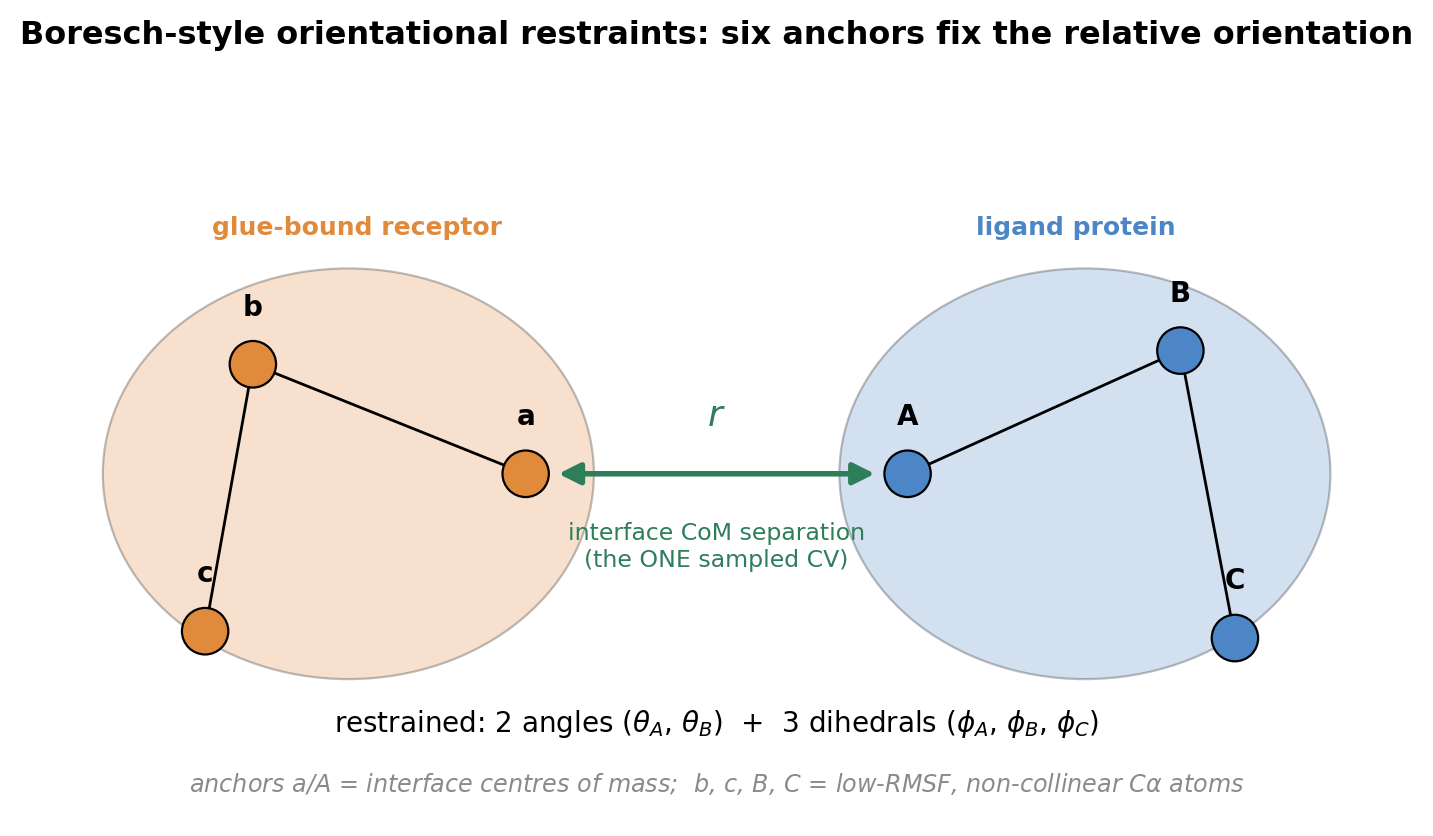
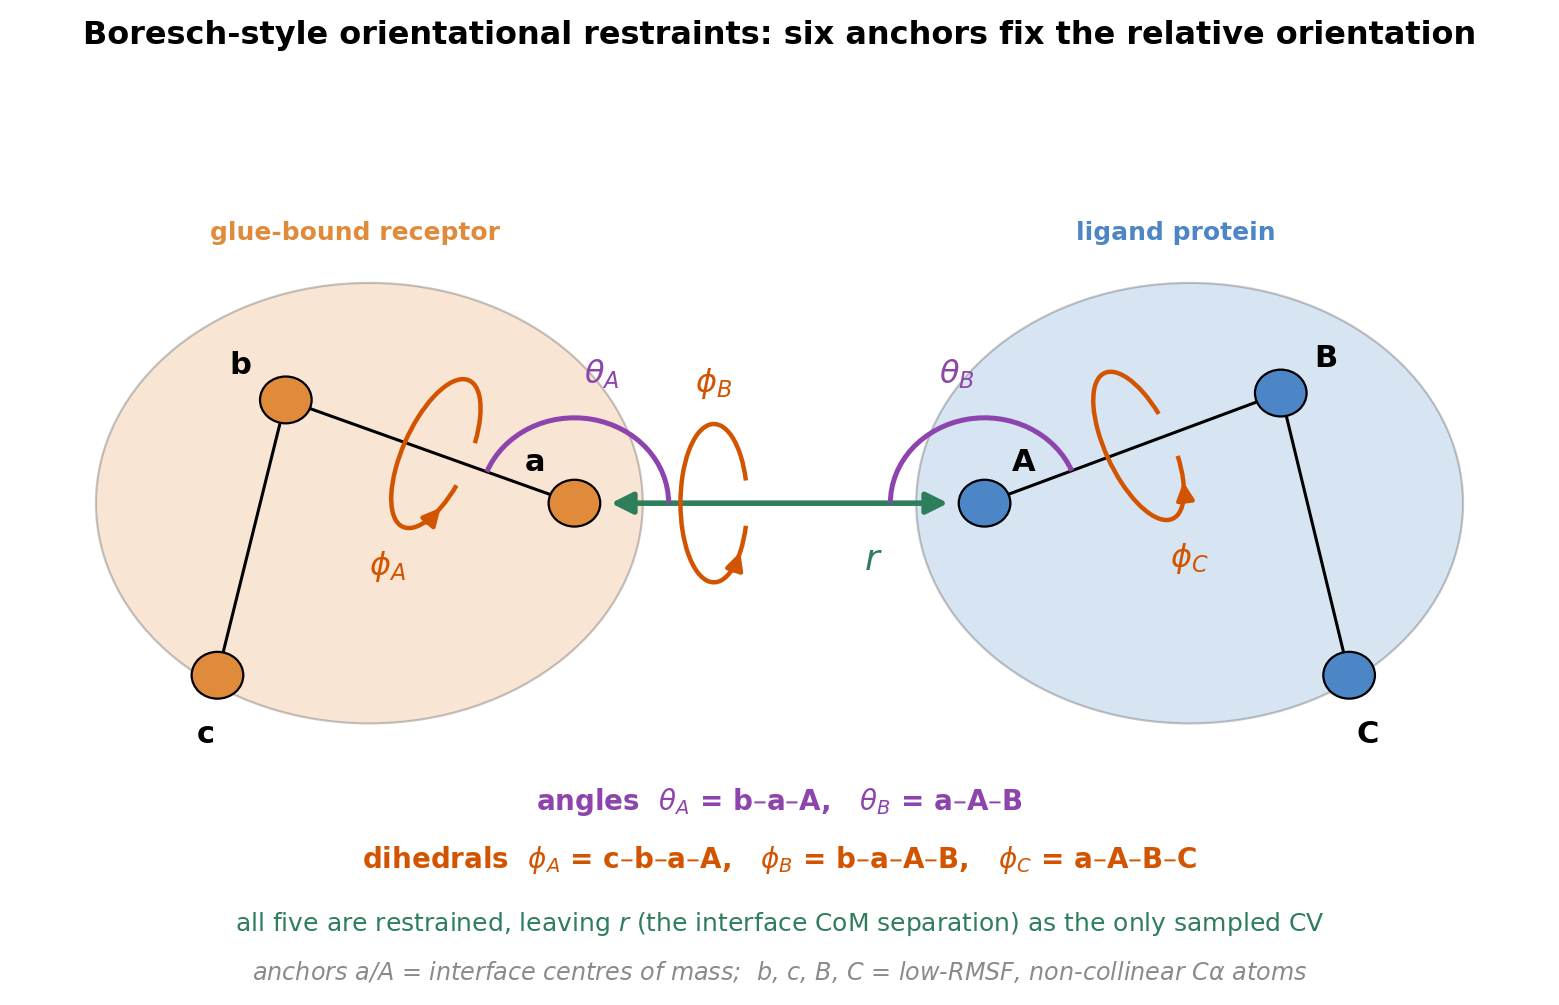
Mark the Boresch angles and dihedrals directly on Figure 3
The restrained coordinates were only named in the caption text. Draw them
where they actually live: the two angles as arcs at their vertex atoms
(a and A), and the three dihedrals as rotation rings around the bond each
one twists about. Move the phi_B ring off-centre so it no longer collides
with the r label on the same axis.

Add the explicit atom definitions to the post body in both languages, and
note that phi_B twists about the same axis the proteins are later pulled
apart along.

diff --git a/_scripts/make_us_ternary_figs.py b/_scripts/make_us_ternary_figs.py
@@ -9,7 +9,8 @@ import numpy as np
 import matplotlib
 matplotlib.use("Agg")
 import matplotlib.pyplot as plt
-from matplotlib.patches import FancyArrowPatch, Ellipse, Circle, FancyBboxPatch
+from matplotlib.patches import (FancyArrowPatch, Ellipse, Circle,
+                                FancyBboxPatch, Arc)
 
 OUT = os.path.join(os.path.dirname(os.path.abspath(__file__)),
                    "..", "images", "blog", "us-ternary-geometric-route")
@@ -181,49 +182,122 @@ def fig2_thermo_cycle():
     plt.close(fig)
 
 
+def _ang(P, Q):
+    """Direction of P->Q in degrees."""
+    return np.degrees(np.arctan2(Q[1] - P[1], Q[0] - P[0]))
+
+
+def draw_angle(ax, vertex, p1, p2, radius, label, color):
+    """Arc marking the angle p1-vertex-p2, labelled on its bisector."""
+    a1, a2 = _ang(vertex, p1), _ang(vertex, p2)
+    sweep = (a2 - a1) % 360
+    if sweep > 180:
+        a1, a2 = a2, a1
+        sweep = 360 - sweep
+    ax.add_patch(Arc(vertex, 2 * radius, 2 * radius, theta1=a1, theta2=a2,
+                     color=color, lw=1.8, zorder=6))
+    mid = np.radians(a1 + sweep / 2.0)
+    lr = radius + 0.34
+    ax.text(vertex[0] + lr * np.cos(mid), vertex[1] + lr * np.sin(mid),
+            label, ha="center", va="center", fontsize=11.5, color=color,
+            fontweight="bold", zorder=7)
+
+
+def draw_torsion(ax, P, Q, t, label, color, w=0.44, h=1.15, gap=38,
+                 lab_side=1.0):
+    """Rotation ring around the P-Q bond, marking a dihedral about it."""
+    P, Q = np.array(P, float), np.array(Q, float)
+    d = Q - P
+    ang = np.degrees(np.arctan2(d[1], d[0]))
+    c = P + t * d
+    ax.add_patch(Arc(c, w, h, angle=ang, theta1=gap, theta2=360 - gap,
+                     color=color, lw=1.6, zorder=6))
+
+    ca, sa = np.cos(np.radians(ang)), np.sin(np.radians(ang))
+
+    def rot(x, y):
+        return np.array([ca * x - sa * y, sa * x + ca * y])
+
+    th = np.radians(360 - gap)
+    tip = c + rot((w / 2) * np.cos(th), (h / 2) * np.sin(th))
+    tan = rot(-(w / 2) * np.sin(th), (h / 2) * np.cos(th))
+    tan = tan / np.hypot(*tan) * 0.14
+    ax.add_patch(FancyArrowPatch(tip - tan, tip, arrowstyle="-|>",
+                                 mutation_scale=13, color=color, lw=1.6,
+                                 shrinkA=0, shrinkB=0, zorder=7))
+
+    perp = np.array([-d[1], d[0]])
+    perp = perp / np.hypot(*perp) * (h / 2 + 0.3) * lab_side
+    ax.text(c[0] + perp[0], c[1] + perp[1], label, ha="center", va="center",
+            fontsize=11.5, color=color, fontweight="bold", zorder=7)
+
+
 # ---------------------------------------------------------------- figure 3
 def fig3_boresch():
-    fig, ax = plt.subplots(figsize=(8.8, 4.8))
+    fig, ax = plt.subplots(figsize=(9.8, 5.9))
     ax.set_xlim(0, 10)
-    ax.set_ylim(0, 5.4)
+    ax.set_ylim(0, 6.6)
     ax.axis("off")
     ax.set_title("Boresch-style orientational restraints: six anchors fix the "
                  "relative orientation", fontsize=11.5, fontweight="bold",
                  pad=12)
 
-    protein(ax, (2.3, 2.5), 3.6, 3.0, C_E3, "", alpha=0.25)
-    ax.text(1.3, 4.25, "glue-bound receptor", fontsize=9, color=C_E3,
+    protein(ax, (2.3, 3.5), 3.6, 3.2, C_E3, "", alpha=0.22)
+    ax.text(1.25, 5.42, "glue-bound receptor", fontsize=9, color=C_E3,
             fontweight="bold")
-    protein(ax, (7.7, 2.5), 3.6, 3.0, C_TARGET, "", alpha=0.25)
-    ax.text(6.9, 4.25, "ligand protein", fontsize=9, color=C_TARGET,
+    protein(ax, (7.7, 3.5), 3.6, 3.2, C_TARGET, "", alpha=0.22)
+    ax.text(6.95, 5.42, "ligand protein", fontsize=9, color=C_TARGET,
             fontweight="bold")
 
-    pts = {"c": (1.25, 1.35), "b": (1.6, 3.3), "a": (3.6, 2.5),
-           "A": (6.4, 2.5), "B": (8.4, 3.4), "C": (8.8, 1.3)}
+    pts = {"c": (1.30, 2.25), "b": (1.75, 4.25), "a": (3.65, 3.50),
+           "A": (6.35, 3.50), "B": (8.30, 4.30), "C": (8.75, 2.25)}
+    lab_off = {"c": (-0.08, -0.42), "b": (-0.30, 0.26), "a": (-0.26, 0.30),
+               "A": (0.26, 0.30), "B": (0.30, 0.26), "C": (0.12, -0.42)}
     for name, (x, y) in pts.items():
         col = C_E3 if name.islower() else C_TARGET
         ax.add_patch(Circle((x, y), 0.17, facecolor=col, edgecolor="black",
                             lw=0.8, zorder=5))
-        ax.text(x, y + 0.36, name, ha="center", fontsize=10,
+        dx, dy = lab_off[name]
+        ax.text(x + dx, y + dy, name, ha="center", va="center", fontsize=11,
                 fontweight="bold", zorder=6)
 
     for p, q in [("c", "b"), ("b", "a"), ("A", "B"), ("B", "C")]:
         ax.plot([pts[p][0], pts[q][0]], [pts[p][1], pts[q][1]],
-                color="black", lw=1.0, zorder=4)
+                color="black", lw=1.1, zorder=4)
 
+    # the single sampled coordinate
     arrow(ax, (pts["a"][0] + 0.24, pts["a"][1]),
           (pts["A"][0] - 0.24, pts["A"][1]),
           color=C_GOOD, lw=2.0, style="<|-|>", mutation=16)
-    ax.text(5.0, 2.85, r"$r$", ha="center", fontsize=13, color=C_GOOD,
-            fontweight="bold")
-    ax.text(5.0, 2.15, "interface CoM separation\n(the ONE sampled CV)",
-            ha="center", va="top", fontsize=8.5, color=C_GOOD)
+    ax.text(5.62, 3.22, r"$r$", ha="center", va="top", fontsize=13,
+            color=C_GOOD, fontweight="bold")
 
-    ax.text(5.0, 0.62,
-            r"restrained: 2 angles ($\theta_A$, $\theta_B$)  +  "
-            r"3 dihedrals ($\phi_A$, $\phi_B$, $\phi_C$)",
-            ha="center", fontsize=10)
-    ax.text(5.0, 0.18,
+    # the two restrained angles, at their actual vertices
+    C_ANG = "#8E44AD"
+    draw_angle(ax, pts["a"], pts["b"], pts["A"], 0.62, r"$\theta_A$", C_ANG)
+    draw_angle(ax, pts["A"], pts["a"], pts["B"], 0.62, r"$\theta_B$", C_ANG)
+
+    # the three restrained dihedrals, as rotations about their central bonds
+    C_DIH = "#D35400"
+    draw_torsion(ax, pts["b"], pts["a"], 0.52, r"$\phi_A$", C_DIH,
+                 lab_side=-1.0)
+    draw_torsion(ax, pts["a"], pts["A"], 0.34, r"$\phi_B$", C_DIH,
+                 lab_side=1.0)
+    draw_torsion(ax, pts["A"], pts["B"], 0.52, r"$\phi_C$", C_DIH,
+                 lab_side=-1.0)
+
+    ax.text(5.0, 1.28,
+            r"angles  $\theta_A$ = b–a–A,   $\theta_B$ = a–A–B",
+            ha="center", fontsize=10, color=C_ANG, fontweight="bold")
+    ax.text(5.0, 0.86,
+            r"dihedrals  $\phi_A$ = c–b–a–A,   $\phi_B$ = b–a–A–B,   "
+            r"$\phi_C$ = a–A–B–C",
+            ha="center", fontsize=10, color=C_DIH, fontweight="bold")
+    ax.text(5.0, 0.40,
+            "all five are restrained, leaving $r$ (the interface CoM "
+            "separation) as the only sampled CV",
+            ha="center", fontsize=9, color=C_GOOD)
+    ax.text(5.0, 0.04,
             r"anchors a/A = interface centres of mass;  b, c, B, C = low-RMSF, "
             r"non-collinear $C\alpha$ atoms",
             ha="center", fontsize=8.6, color=C_GREY, style="italic")

diff --git a/_posts/2026-11-16-umbrella-sampling-ternary-complex-geometric-route.md b/_posts/2026-11-16-umbrella-sampling-ternary-complex-geometric-route.md
@@ -82,7 +82,23 @@ Three implementation details carry most of the real weight; skipping any of them
 
 有三个实现细节承担了大部分真实工作量，复现时跳过任何一个都会翻车。
 
-![Figure 3 — The Boresch restraint scheme. Six anchor points (three per protein) define two angles and three dihedrals; restraining all five, plus the Cα RMSD of each protein, leaves the interface centre-of-mass separation r as the single sampled coordinate. Anchors b, c, B and C are chosen at local minima of the RMSF plot so that the restrained angles are built on rigid parts of the structure.](/images/blog/us-ternary-geometric-route/fig3_boresch_anchors.png)
+![Figure 3 — The Boresch restraint scheme, with the restrained coordinates marked where they actually live. The two angles (purple arcs) sit at their vertex atoms a and A; the three dihedrals (orange rings) are drawn as rotations about the bond each one twists around. Restraining all five, plus the Cα RMSD of each protein, leaves the interface centre-of-mass separation r as the single sampled coordinate. Anchors b, c, B and C are chosen at local minima of the RMSF plot so that the restrained angles are built on rigid parts of the structure.](/images/blog/us-ternary-geometric-route/fig3_boresch_anchors.png)
+
+**The five restrained coordinates / 被限制的五个坐标.** Label the anchors a, b, c in the glue-bound receptor and A, B, C in the ligand protein. The restrained degrees of freedom are then the two angles
+
+把带胶受体一侧的锚点记为 a、b、c，配体蛋白一侧记为 A、B、C，被限制的自由度就是两个角
+
+$$\theta_A = \angle(b,a,A), \qquad \theta_B = \angle(a,A,B)$$
+
+and the three dihedrals
+
+和三个二面角
+
+$$\phi_A = (c,b,a,A), \qquad \phi_B = (b,a,A,B), \qquad \phi_C = (a,A,B,C)$$
+
+Each dihedral is a rotation about the bond at its centre, which is why Figure 3 draws them as rings around those bonds: φ_A twists about b–a, φ_B about a–A, and φ_C about A–B. Note that **φ_B twists about the very axis the proteins are later pulled apart along** — the separation r = a–A is the one coordinate among the six left free to move.
+
+每个二面角都是绕它中间那根键的转动，所以图 3 把它们画成套在相应键上的圆环：φ_A 绕 b–a，φ_B 绕 a–A，φ_C 绕 A–B。注意 **φ_B 绕的正是后面把两个蛋白拉开所沿的那条轴**——六个坐标里，只有分离坐标 r = a–A 被留着自由活动。
 
 **Anchor selection / 锚点选择.** The Boresch scheme needs six anchors: three in the glue-bound receptor, three in the ligand protein. An anchor on a floppy loop makes the restrained angles meaningless. The authors run 100 ns of unrestrained MD in triplicate, compute **RMSF**, and pick anchors at **local minima of the RMSF plot** that are also non-collinear. The two interface centres of mass are the "bonded" pair that defines the separation coordinate. Equilibration is detected automatically with White's marginal standard error rule (the RED package), not by eye.
 
